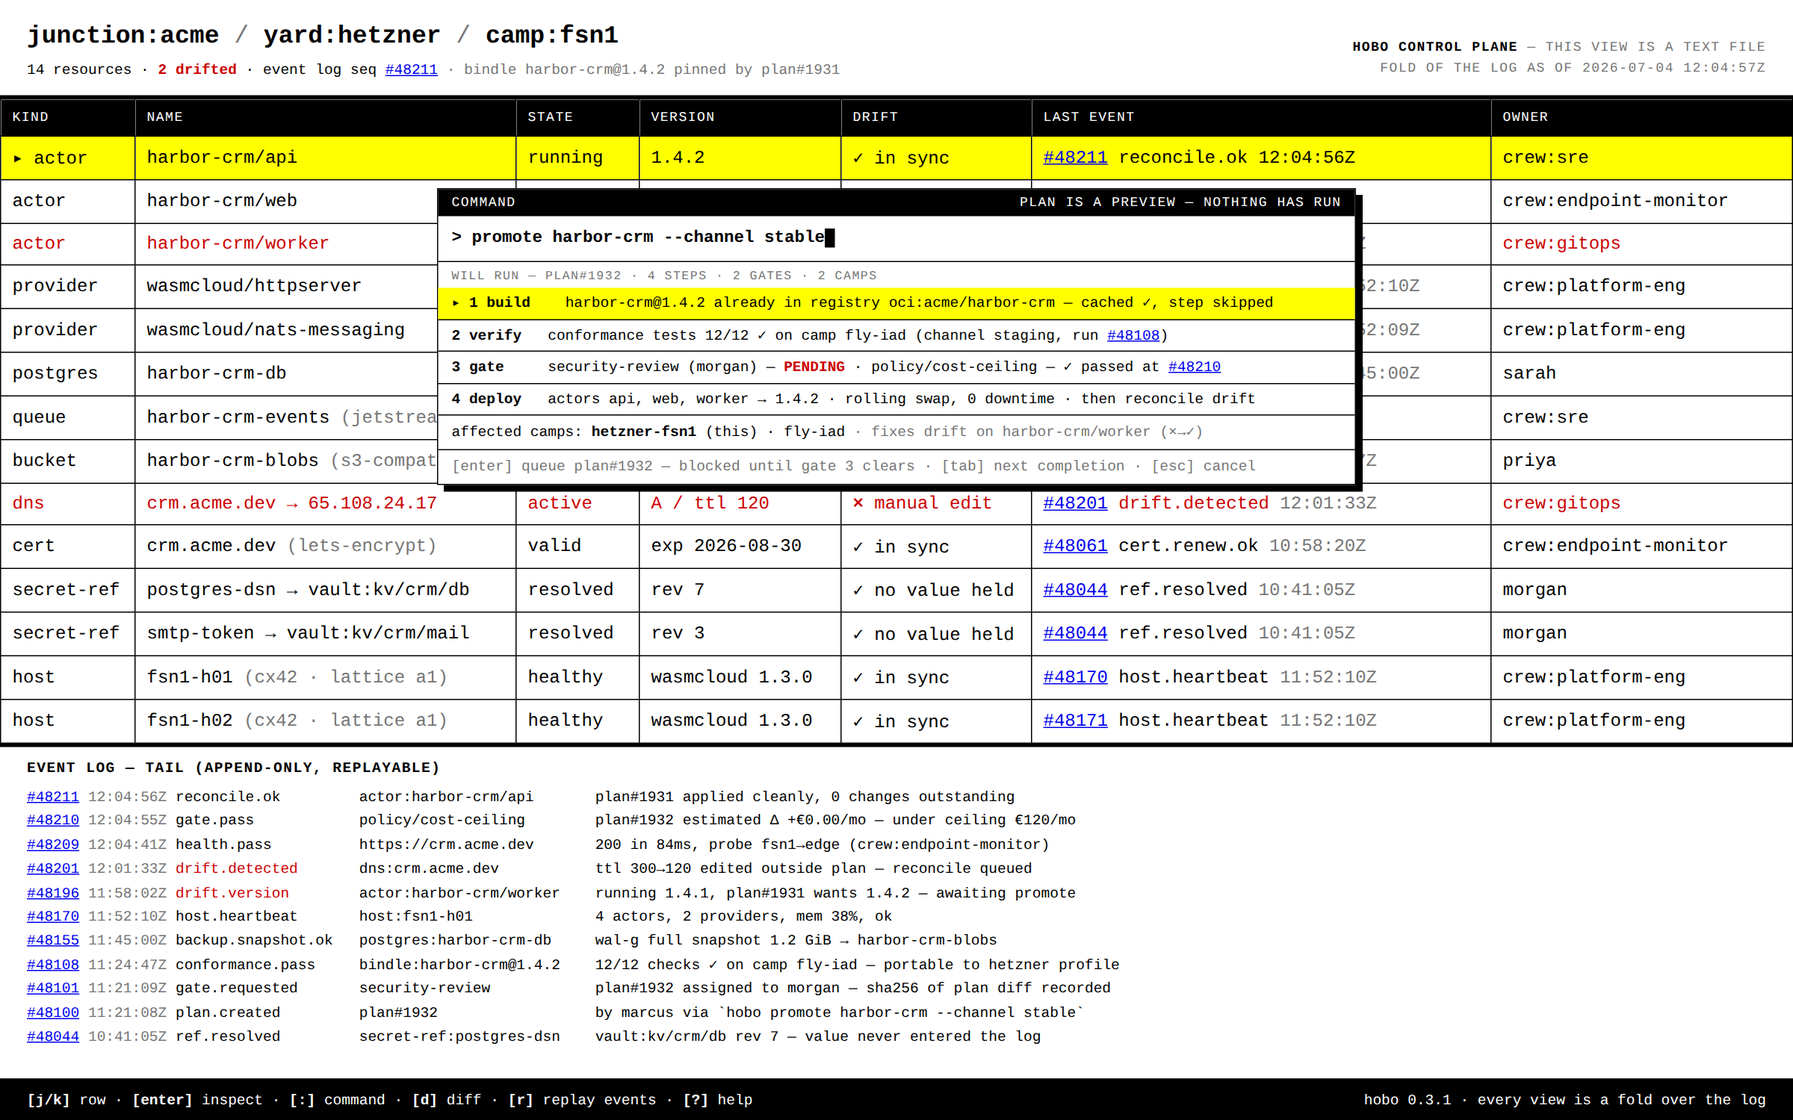
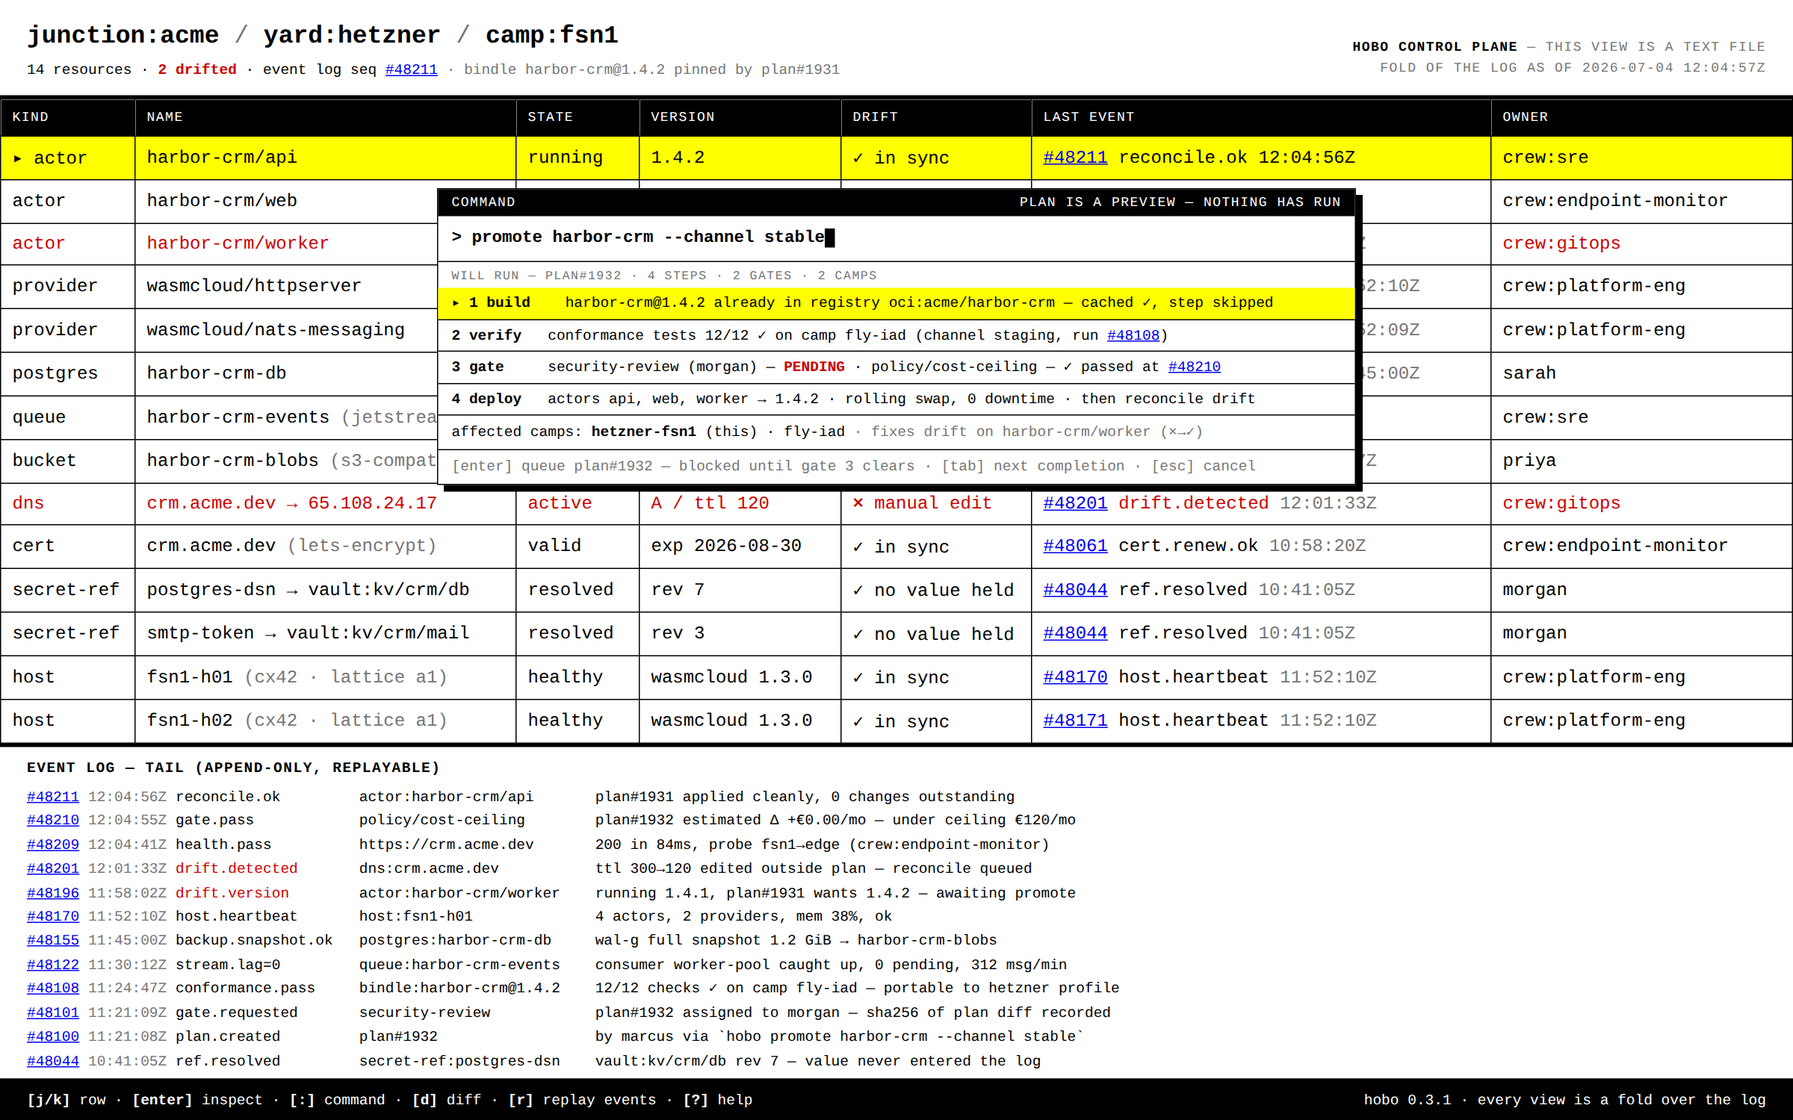
docs(design): add mission-control loop record and hardened evidence
Claude-Session: https://claude.ai/code/session_01193JfQgH8myHQ6ySCdWLrD

Changed region(s): [[0.0312, 0.8587, 0.625, 0.9507]]

diff --git a/docs/design/explorations/control-plane-ux/09-timetable/mockup.html b/docs/design/explorations/control-plane-ux/09-timetable/mockup.html
@@ -22,7 +22,7 @@
     font-family: Helvetica, Arial, sans-serif;
     font-variant-numeric: tabular-nums;
     display: flex; flex-direction: column;
-    padding: 36px var(--margin) 32px var(--margin);
+    padding: 28px var(--margin) 28px var(--margin);
   }
   b, strong, .b { font-weight: bold; }
 
@@ -33,13 +33,13 @@
     letter-spacing: -2px;
   }
   .masthead .sub {
-    margin-top: 16px; font-size: var(--size-xs); color: var(--gray);
+    margin-top: 14px; font-size: var(--size-xs); color: var(--gray);
     letter-spacing: 2px; text-transform: uppercase; line-height: 1.6;
   }
   .clock { flex: none; margin-top: 2px; }
 
   /* ---- board ---- */
-  .board { margin-top: 24px; flex: 1; display: flex; flex-direction: column; min-height: 0; }
+  .board { margin-top: 16px; flex: 1; display: flex; flex-direction: column; min-height: 0; }
   .row, .colhead {
     display: grid; grid-template-columns: var(--cols); column-gap: var(--gutter);
     align-items: baseline;
@@ -50,7 +50,7 @@
     border-bottom: 2px solid var(--ink);
   }
   .row {
-    flex: 1; align-content: center;
+    flex: 1; align-content: start; padding-top: 11px;
     border-bottom: 1px solid var(--hairline);
   }
   .row .time { font-size: var(--size-l); font-weight: bold; letter-spacing: -1px; line-height: 1; }
@@ -62,17 +62,17 @@
   .row .status { font-size: var(--size-s); font-weight: bold; letter-spacing: 0.5px; white-space: nowrap; }
   .row .status .why {
     display: block; font-size: var(--size-xs); font-weight: normal;
-    letter-spacing: 0; color: var(--gray); margin-top: 3px;
+    letter-spacing: 0; color: var(--gray); margin-top: 2px;
   }
   .delayed { color: var(--red); }
 
   /* ---- notices ---- */
-  .notices { margin-top: 22px; }
+  .notices { margin-top: 16px; }
   .notices h2 {
     font-size: var(--size-xs); font-weight: bold; letter-spacing: 2px;
     color: var(--gray); padding-bottom: 8px; border-bottom: 2px solid var(--ink);
   }
-  .notices p { font-size: var(--size-s); line-height: 1.45; margin-top: 7px; }
+  .notices p { font-size: var(--size-s); line-height: 1.4; margin-top: 7px; }
   .notices p .crew { color: var(--gray); }
 </style>
 

diff --git a/docs/design/explorations/control-plane-ux/06-brutalist-terminal/mockup.html b/docs/design/explorations/control-plane-ux/06-brutalist-terminal/mockup.html
@@ -223,6 +223,7 @@
 <a href="#">#48196</a> <span class="dim">11:58:02Z</span> <span class="drift">drift.version</span>        actor:harbor-crm/worker    running 1.4.1, plan#1931 wants 1.4.2 — awaiting promote
 <a href="#">#48170</a> <span class="dim">11:52:10Z</span> host.heartbeat       host:fsn1-h01              4 actors, 2 providers, mem 38%, ok
 <a href="#">#48155</a> <span class="dim">11:45:00Z</span> backup.snapshot.ok   postgres:harbor-crm-db     wal-g full snapshot 1.2 GiB → harbor-crm-blobs
+<a href="#">#48122</a> <span class="dim">11:30:12Z</span> stream.lag=0         queue:harbor-crm-events    consumer worker-pool caught up, 0 pending, 312 msg/min
 <a href="#">#48108</a> <span class="dim">11:24:47Z</span> conformance.pass     bindle:harbor-crm@1.4.2    12/12 checks ✓ on camp fly-iad — portable to hetzner profile
 <a href="#">#48101</a> <span class="dim">11:21:09Z</span> gate.requested       security-review            plan#1932 assigned to morgan — sha256 of plan diff recorded
 <a href="#">#48100</a> <span class="dim">11:21:08Z</span> plan.created         plan#1932                  by marcus via `hobo promote harbor-crm --channel stable`

diff --git a/docs/design/explorations/control-plane-ux/01-terrain/mockup.html b/docs/design/explorations/control-plane-ux/01-terrain/mockup.html
@@ -182,8 +182,8 @@ body{
   </g>
   <!-- camp-build -->
   <g fill="none" stroke="#C9BFA5" stroke-width="1.1">
-    <use href="#ring" transform="translate(330,222) rotate(-30) scale(.78)"/>
-    <use href="#ring" transform="translate(332,224) rotate(15) scale(.45)"/>
+    <use href="#ring" transform="translate(452,262) rotate(-30) scale(.78)"/>
+    <use href="#ring" transform="translate(454,264) rotate(15) scale(.45)"/>
   </g>
   <!-- camp-edge-eu -->
   <g fill="none" stroke="#C9BFA5" stroke-width="1.1">
@@ -211,7 +211,7 @@ body{
   </g>
   <g font-size="8.5" font-style="italic" fill="#6B6455">
     <text x="250" y="608">38%</text>
-    <text x="356" y="196">21%</text>
+    <text x="478" y="236">21%</text>
     <text x="1042" y="228">58%</text>
     <text x="944" y="650">33%</text>
   </g>

diff --git a/docs/design/explorations/control-plane-ux/03-mission-control/README.md b/docs/design/explorations/control-plane-ux/03-mission-control/README.md
@@ -1,0 +1,149 @@
+# 03 · Mission Control
+
+**Thesis: every deploy is a LAUNCH.**
+
+Deploy-in-progress console for the `harbor-crm` bindle rolling v2.4.1 → v2.5.0 across the
+production Camp fleet (hetzner-fsn1 canary live, cloudflare-edge and fly-ams holding),
+rendered as a NASA-style flight-control room.
+
+## Philosophy
+
+A production deploy is the highest-stakes moment a control plane ever hosts, and most tools
+render it as a progress bar with a spinner. Mission Control takes the opposite position:
+borrow the visual discipline of a launch console, where every decision-maker is a *station*,
+every threshold is a *flight rule* written down before ignition, and the master clock — not
+the scroll position — is the organizing axis of the whole room. HoBo's append-only event log
+makes the metaphor honest rather than cosmetic: the countdown clock is literally elapsed time
+since the plan was committed at seq 18,204, and ABORT is not a kill switch but a *replay* of
+the log back to that sequence number. The room exists to answer one question at a glance:
+**are we still GO?**
+
+## Design principles
+
+1. **One clock rules the room.** Every timestamp on screen is mission-elapsed time (`T+`),
+   from the 56px master clock to each ticker row to the flight-rule sustain windows. Wall
+   time (UTC) appears exactly once, in the header, as a courtesy.
+2. **A verdict is a lamp, not a paragraph.** The GO/NO-GO board gives each policy gate and
+   Crew agent a physical station with a square status lamp, a one-word verdict, and a
+   one-line justification. Five GO and one POLLING is readable across the room.
+3. **Thresholds are drawn before the data crosses them.** Every telemetry strip carries its
+   red abort line and grey reference line in the plot itself, and the same numbers reappear
+   verbatim in the flight-rules footnote. Nothing about auto-abort is discretionary or hidden.
+4. **Destructive controls have physical friction.** HOLD is a plain amber-framed control;
+   ABORT is hazard-striped, guarded, and demands a confirm phrase ("ABORT D-2481"). They are
+   impossible to confuse at any distance.
+5. **The log is the truth.** The bottom ticker is styled as the append-only event log it
+   actually is — sequence-numbered, replayable, and the source of both the clock and the
+   rollback target.
+
+## Design system
+
+### Palette
+
+| Token | Hex | Role |
+|---|---|---|
+| `--bg` | `#0A0E12` | room background |
+| `--panel` | `#10161D` | panel surface |
+| `--panel-deep` | `#0C1117` | inset cards (stations, camps, strips) |
+| `--grid` | `#1B242E` | gridlines, borders, chart rules |
+| `--green` | `#37FF8B` | phosphor: GO, nominal, active phase, mission clock |
+| `--amber` | `#FFB020` | caution: POLLING, HOLDING camps, HOLD control |
+| `--red` | `#FF4545` | abort lines, flight rules, ABORT control |
+| `--cyan` | `#39C6D6` | telemetry traces and current values |
+| `--text` | `#C8D3DC` | primary text (≥ 4.5:1 on `--panel`) |
+| `--text-dim` | `#8FA1AF` | secondary labels (≥ 4.5:1 on `--panel-deep`) |
+
+### Type scale
+
+| Use | Face | Size |
+|---|---|---|
+| Mission clock | mono 700 | 56px + phosphor glow |
+| Station verdicts (GO/POLLING) | mono 700 | 17px |
+| Telemetry current values | mono 700 | 18px |
+| Panel labels / phase names | condensed sans, uppercase, +.14–.18em tracking | 10–13px |
+| Body data, ticker rows | mono | 11–12px |
+| Footnotes, station rationale | mono | 9.5–10.5px |
+
+Two font stacks only: `--font-mono` (IBM Plex Mono → Consolas → monospace) for all data,
+`--font-sans` (Arial Narrow condensed) for uppercase headers. No serif anywhere.
+
+### Spacing & structure
+
+- Fixed 1600×1000 frame; 14px outer gutter and inter-panel gap (`--pad`).
+- Two-column grid: 1148px operations column, 406px decision column.
+- Left rows: clock+sequence 158px · GO/NO-GO 196px · telemetry 240px · event log fills.
+- Sharp 1px borders everywhere; **zero border-radius** (flight hardware, not a web app).
+
+### Components
+
+- **Phase rail** — five bordered phase blocks joined by `▶` connectors; completed phases lit
+  green-on-dim, active phase glowing green inset with a 25%-filled traffic bar, pending grey.
+- **Station card** — station code (`STN-05 · CREW AGENT`), name, controller, rationale line,
+  then lamp + verdict word; verdict color repeated in a 2px bottom rule.
+- **Telemetry strip** — label + big cyan value, stretched SVG sparkline with grid rules,
+  dashed red abort line, dotted grey reference line, live-point dot; footer restates
+  `ABORT >` threshold, reference value, and NOMINAL state.
+- **Camp card** — camp name + bordered status chip (CANARY LIVE / HOLDING), yard/provider
+  line, pinned version and live numbers.
+- **Guarded control** — HOLD (amber frame, pause glyph) vs ABORT (red frame, 45° hazard
+  stripes, guard instruction line).
+- **Ticker row** — `T+` timestamp · uppercase source · message · right-aligned verdict tag,
+  with a 2px severity edge.
+
+## Look & feel
+
+Black-green CRT console under a 3px scanline overlay (kept below 10% opacity so legibility
+never suffers). The only glow in the room belongs to the mission clock and the status lamps —
+phosphor is spent on state, not decoration. Density is deliberately high: an operator scans
+clock → board → strips in under a second, and everything else holds still. Red appears only
+where abort semantics live, so any new red pixel is an event.
+
+## Ideation log
+
+1. **Vertical countdown spine** — a single T-minus/T-plus timeline running down the left edge
+   with events pinned to it. Rejected: it privileged history over *current state*; the
+   GO/NO-GO verdict ended up below the fold, which is backwards for a live console.
+2. **Full-screen big-board (single wall display)** — one giant clock over a two-row lamp
+   grid, no telemetry detail. Rejected: gorgeous from six meters, useless at a desk; the
+   canary decision needs the actual p95/error traces with thresholds, not just lamps.
+3. **Radar/orbital plot centerpiece** — camps as orbiting nodes around the bindle with
+   traffic-split arcs. Rejected: overlaps loop 01 Terrain's spatial-map territory and turns
+   the 25%-traffic fact into an ornament; a phase rail states it more precisely.
+4. **Chat-style Crew feed for the right column** — Crew agents reporting conversationally.
+   Rejected outright: chat elements are on the forbidden list (that's loop 05's thesis), and
+   flight controllers answer polls with GO/NO-GO, not paragraphs.
+
+## Hardening notes
+
+- **Pass 1 → 2:** Killed ~180px of dead space under the flight rules by adding the upcoming
+  milestones schedule (T+06:00 / T+11:00 / T+18:00); made sparkline SVGs stretch to fill
+  their strips (footers had been floating above an empty band); added the missing `▶`
+  connectors so the rail actually reads PLAN → GATES → CANARY → ROLLOUT → VERIFY; fixed a
+  wrong short-form timestamp (`@ T+06:00` inside the active phase) and gave the mission
+  clock a hold-point progress bar with a −00:01:28 countdown to the 50% decision.
+- **Pass 2 → 3:** Two extra event rows plus looser row padding pushed the T+00:00:00 LAUNCH
+  commit row off the panel edge — clipping the single most important log line. Dropped the
+  redundant CONFORMANCE row (already on the board), restored 3px row padding; all 11 rows
+  now land inside the panel with the countdown rendered amber for urgency. Re-shot: no
+  clipping, no dead space, lint PASS.
+
+## Distinctiveness check
+
+- **01 Terrain** — Terrain is cartographic space (where things run); Mission Control is
+  chronological time (one clock, one launch, no map).
+- **02 Broadsheet** — Broadsheet is retrospective editorial prose on newsprint; this is a
+  live black-phosphor console where the story is still being decided.
+- **04 Quiet Garden** — Quiet Garden minimizes urgency; Mission Control manufactures
+  disciplined urgency with countdowns, lamps, and abort lines.
+- **05 Conversation** — Conversation is Crew dialogue in natural language; here Crew agents
+  are silent stations that answer polls with exactly one word.
+- **06 Brutalist Terminal** — the Terminal is an undesigned text file; Mission Control is a
+  heavily art-directed instrument panel with lamps, rails, and guarded switches.
+- **07 Organism** — Organism renders the platform as living cells that grow; this renders
+  one discrete irreversible event with a hard go/no-go gate.
+- **08 Metropolis** — Metropolis is isometric architecture of the steady state; this is the
+  four-and-a-half minutes where the steady state is deliberately broken.
+- **09 Timetable** — Timetable rows are many departures of equal weight; Mission Control is
+  one departure given the entire room.
+- **10 Patchbay** — Patchbay is spatial signal routing between jacks; this is temporal
+  sequencing through phases — cables versus countdowns.

diff --git a/docs/design/explorations/control-plane-ux/02-broadsheet/README.md b/docs/design/explorations/control-plane-ux/02-broadsheet/README.md
@@ -1,0 +1,136 @@
+# 02 — Broadsheet: THE HOBO LEDGER
+
+**Thesis: Operations is JOURNALISM — the control plane is today's edition of your infrastructure.**
+
+## Philosophy
+
+HoBo's append-only event log already behaves like a newspaper's morgue: nothing is ever
+overwritten, every claim traces to a dated entry, and yesterday's mistakes are corrected in
+print rather than silently edited. This exploration takes that seriously and renders the
+Junction `acme-industries` as a broadsheet front page, "printed" each morning at 05:00 UTC
+from entries #88001–#88650. The overnight promotion of harbor-crm v2.5.0 is the lead story
+because it *is* the biggest overnight change; drift is a Corrections box because a
+reconciliation *is* the audit narrative admitting the record and reality briefly disagreed;
+pending approvals are classifieds because they are small, patient, and legally binding.
+Crews get bylines — the GitOps Crew files copy, the SRE Crew's comment is "Nominal." —
+which frames autonomous operators as accountable correspondents, not invisible daemons.
+The form imposes an editorial judgment a dashboard never makes: one lead, a hierarchy of
+secondary pieces, agate for everything that only matters if you're looking for it.
+
+## Design principles
+
+1. **Everything printed is an entry.** Every figure, story, and notice cites event IDs or
+   Plan numbers (`Plan #4182`, `events #88413–#88429`) and is replayable; the bottom folio
+   line states the contract explicitly.
+2. **Hierarchy by editorial judgment, not by widget size.** One lead story, three-column
+   justified body with a drop cap; secondary reports get one column; the merely pending
+   gets 9.5px agate. Importance is expressed in ems, not in color.
+3. **Corrections, not alerts.** Drift found-and-reconciled is printed as a correction that
+   preserves both states ("this ledger regrets the drift, and has replayed it") —
+   accountability without panic.
+4. **Ink discipline.** Two inks: black and one measured drop of red for the single most
+   urgent item on the page (the 36-hour TLS expiry). If everything is red, nothing is news.
+5. **Pure newspaper craft.** Vertical hairline rules between columns, horizontal rules in
+   three weights (3px section, 1px text, double-rule closers), justified hyphenated serif
+   body, uppercase letter-spaced section labels, ears flanking the masthead.
+
+## Design system
+
+### Palette
+
+| Token | Hex | Role |
+|---|---|---|
+| `--newsprint` | `#FAF8F2` | Page stock; the only background |
+| `--ink` | `#141414` | Headlines, body, rules, table figures |
+| `--hairline` | `#C8C4BA` | Column rules, light horizontal rules, table row rules |
+| `--agate` | `#55524B` | Agate/classified text, bylines, folio, table headers (≥ 4.5:1 on newsprint) |
+| `--alert` | `#B3261E` | Used exactly once — the expiring TLS certificate notice |
+
+### Type scale (single stack: `Georgia, 'Times New Roman', Times, serif`)
+
+| Size | Use |
+|---|---|
+| 68px bold, −0.015em | Masthead "The HoBo Ledger" (didone feel) |
+| 37px bold | Lead headline |
+| 19px bold | Secondary-story headlines |
+| 15px italic | Lead deck |
+| 13px justified (`--body-size`) | Lead body, 3 CSS columns, drop cap, hyphenated |
+| 12px justified | Secondary story bodies |
+| 11px tabular | Fleet Vitals table |
+| 9–10.5px (`--agate-size`, `--label-size`) | Agate notices, kickers (letter-spacing .14–.34em, uppercase), folio, footnotes |
+
+### Spacing & rules
+
+| Token / value | Role |
+|---|---|
+| `--gap: 18px` | Column gutter (flex strips and CSS-column interiors) |
+| `--rule-thin: 1px` | Hairlines, text rules |
+| `--rule-heavy: 3px` | Section kickers (top), masthead folio bar, `double` closers |
+| Page margins 20–30px | Trim area of the 1600×1000 sheet |
+
+### Components
+
+- **Masthead**: ears (Fleet Weather = uptime index; Spend = cost index), motto
+  ("All the State That's Fit to Replay"), folio bar between heavy/thin rules.
+- **Lead package**: headline, italic deck, hairline-bounded byline, 3-column justified
+  body with 56px drop cap and hairline column rules.
+- **Fleet Vitals**: markets-style table — per Camp: uptime %, p95 ms, err %, $/day, Δ day —
+  double-rule closer and sourcing footnote.
+- **Public Notices**: agate classifieds (approvals, certificates, reconciliations, lost &
+  found, decommission obituary, spot prices, meetings).
+- **Corrections & Reconciliations**: 1px-bordered box; the drift audit narrative.
+- **Tomorrow's Forecast**: timetable of gates and rollouts; **On This Day** almanac closer;
+  **Letters** (Elena's replay-link request); event-log colophon line.
+
+## Look & feel
+
+Warm newsprint sheet, black ink, one drop of red. Reads top-left ear to bottom folio like
+a real front page: weather (uptime) and markets (spend) in the ears, news in the middle,
+agate at the edges. Dry, factual prose with newspaper wit ("The Change Advisory Board
+holds no meeting today, or any day"). No cards, no rounded corners, no shadows, no icons,
+no charts — hierarchy carried entirely by type size, rule weight, and column placement.
+
+## Ideation log
+
+- **Tabloid spread (two-page, centerfold incident diagram)** — rejected: halves the type
+  scale at 1600×1000 and dilutes the front-page thesis; a broadsheet's single-sheet
+  hierarchy is the point.
+- **Live ticker/stop-press strip with blinking updates** — rejected: an edition is a
+  snapshot of the log at press time (05:00 UTC); motion would betray the "printed record"
+  metaphor and re-introduce dashboard nervousness.
+- **Color-coded sections (FT-pink markets, blue sports-style vitals)** — rejected: breaks
+  ink discipline and the one-red rule; status-by-color is exactly the dashboard habit this
+  loop abstains from.
+- **Engraved SVG illustration (harbor woodcut) under the masthead** — rejected: spends
+  ~200px of a 1000px sheet on decoration while the brief demands information density;
+  ears with real indices earn the space instead.
+- **CSS `columns` for the whole page** — rejected: browser column balancing fights fixed
+  1600×1000 trim; hand-set flex strips with explicit hairlines give newspaper-accurate
+  control (lead body alone uses `columns: 3`).
+
+## Hardening notes
+
+- **Pass 1 (v1 → v2):** v1 read as a newspaper but had dead air — a hole above the
+  Corrections box, empty feet under Tomorrow's Forecast and the Letters-less right rail.
+  Filled with real content, not padding: a decommission obituary (legacy-pdf-service,
+  "survived by worker"), Tenders & Spot Prices agate, a Letters box from Elena with an
+  editors' reply, an On This Day almanac (harbor-crm v0.1.0, one year ago), one more
+  forecast slot (Marcus replays his own promotion), and a full-width bottom folio line
+  stating the replay contract.
+- **Pass 2 (v2 → v3):** tightened the remaining pockets — added the "Meetings" notice to
+  close the gap above Corrections, grew the masthead 64→68px to fill the title band,
+  bumped Fleet Vitals to 11px with more leading so the table lands on the footer, and
+  extended the table footnote with the Δ/p95 methodology line. Verified `--alert` is
+  referenced exactly once and zero hex literals appear outside `:root`.
+
+## Distinctiveness check
+
+- **01 Terrain**: this is set type on a flat sheet — no cartography, elevation, or spatial metaphor.
+- **03 Mission Control**: a morning-after printed record, not a live launch console with telemetry.
+- **04 Quiet Garden**: editorial and information-dense, not calm-ambient minimalism.
+- **05 Conversation**: crews file bylined copy in the third person; nothing is a chat turn.
+- **06 Brutalist Terminal**: high typographic craft (justified serif, drop caps, rule weights), the opposite of raw monospace honesty.
+- **07 Organism**: static ink at press time, not living cells that breathe or grow.
+- **08 Metropolis**: strictly 2D column-and-rule composition; no isometry, no city.
+- **09 Timetable**: narrative journalism with one small timetable inside it, not a Swiss departures grid.
+- **10 Patchbay**: paper metaphor, not hardware — no racks, jacks, or signal paths.
